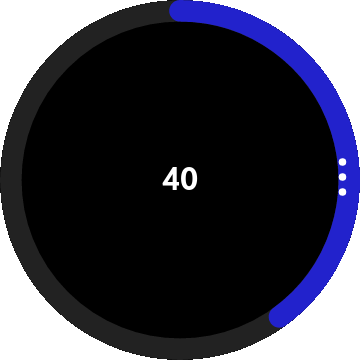
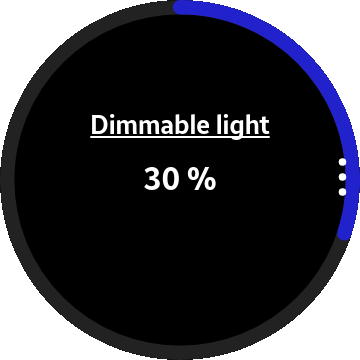
Added heading for selection and setpoint control

diff --git a/src/ui/openhab/widgets/setpoint-control.vue b/src/ui/openhab/widgets/setpoint-control.vue
@@ -23,6 +23,10 @@
         }
 
         get displayValue(): string {
+            const stateLabel = this.stateLabel;
+            if (stateLabel) {
+                return stateLabel;
+            }
             const {state, stateDescription} = this.item;
             if (stateDescription) {
                 return sprintf(stateDescription.pattern, state);
@@ -50,6 +54,23 @@
 
 <template>
     <slider-control v-model="value" :step-size="stepSize" :max-value="maxValue" :min-value="minValue">
-        {{displayValue}}
+        <div class="setpoint_label">{{label}}</div>
+        <div class="setpoint_value">{{displayValue}}</div>
     </slider-control>
 </template>
+
+<style lang="scss" scoped>
+    @import "~settings";
+    .setpoint_label {
+        font-size: .8em;
+        text-decoration: underline;
+        white-space: nowrap;
+        overflow: hidden;
+        margin: 0 40px;
+        text-overflow: ellipsis;
+    }
+    .setpoint_value {
+        padding-bottom: 50px;
+        padding-top: 20px;
+    }
+</style>

diff --git a/src/ui/components/option-list.vue b/src/ui/components/option-list.vue
@@ -1,5 +1,5 @@
 <template>
-    <scaling-list>
+    <scaling-list :heading="heading">
         <scaling-list-item v-for="option in options" :key="option.value">
             <div class="list-control list-item">
                 <input type="radio" :id="'c_' + option.value" :value="option.value" :checked="isSelected(option.value)"
@@ -37,6 +37,9 @@
     export default class OptionList extends Vue {
         @Prop(Array)
         options: SelectOption[];
+
+        @Prop({type: String, default: ""})
+        heading: string;
 
         @Model("change", {type: String, default: ""})
         selected: string;

diff --git a/src/api/openhab-types.ts b/src/api/openhab-types.ts
@@ -46,16 +46,16 @@ export interface Item {
     link: string;
     state: string;
     stateDescription?: StateDescription;
-    editable: boolean;
+    editable?: boolean;
     type: string;
-    name: string;
-    label: string;
-    tags: string[];
-    groupNames: string[];
-    members: any[];
-    groupType: string;
-    function: Function;
-    category: string;
+    name?: string;
+    label?: string;
+    tags?: string[];
+    groupNames?: string[];
+    members?: any[];
+    groupType?: string;
+    function?: Function;
+    category?: string;
 }
 
 export interface Function {

diff --git a/src/ui/openhab/widgets/widget-control.ts b/src/ui/openhab/widgets/widget-control.ts
@@ -2,7 +2,7 @@ import Vue from "vue";
 import {Prop} from "vue-property-decorator";
 import {Item, Widget} from "@app/api/openhab-types";
 import {Inject} from "@app/ui/ioc";
-import {SitemapClient, SitemapState} from "@app/api";
+import {SitemapState} from "@app/api";
 import {parseLabel} from "./label-parser";
 
 export default class WidgetControl extends Vue {

diff --git a/src/ui/components/circular-slider.vue b/src/ui/components/circular-slider.vue
@@ -1,5 +1,5 @@
 <template>
-    <progress-indicator :start="0" :end="endValue" :width="6" :show-bg="true"></progress-indicator>
+    <progress-indicator :start="0" :end="endValue" :width="4" :show-bg="true"></progress-indicator>
 </template>
 
 <script lang="ts">

diff --git a/src/ui/openhab/widgets/selection-control.vue b/src/ui/openhab/widgets/selection-control.vue
@@ -1,6 +1,6 @@
 <template>
     <div class="fill-available-space">
-        <option-list v-model="value" :options="options"></option-list>
+        <option-list v-model="value" :options="options" :heading="label"></option-list>
     </div>
 </template>
 

diff --git a/src/ui/components/settings-button.vue b/src/ui/components/settings-button.vue
@@ -22,6 +22,7 @@
         height: 60px;
         fill: $color-primary;
         stroke: $color-primary;
+        stroke-width: 1;
     }
 
     .settings-link {
